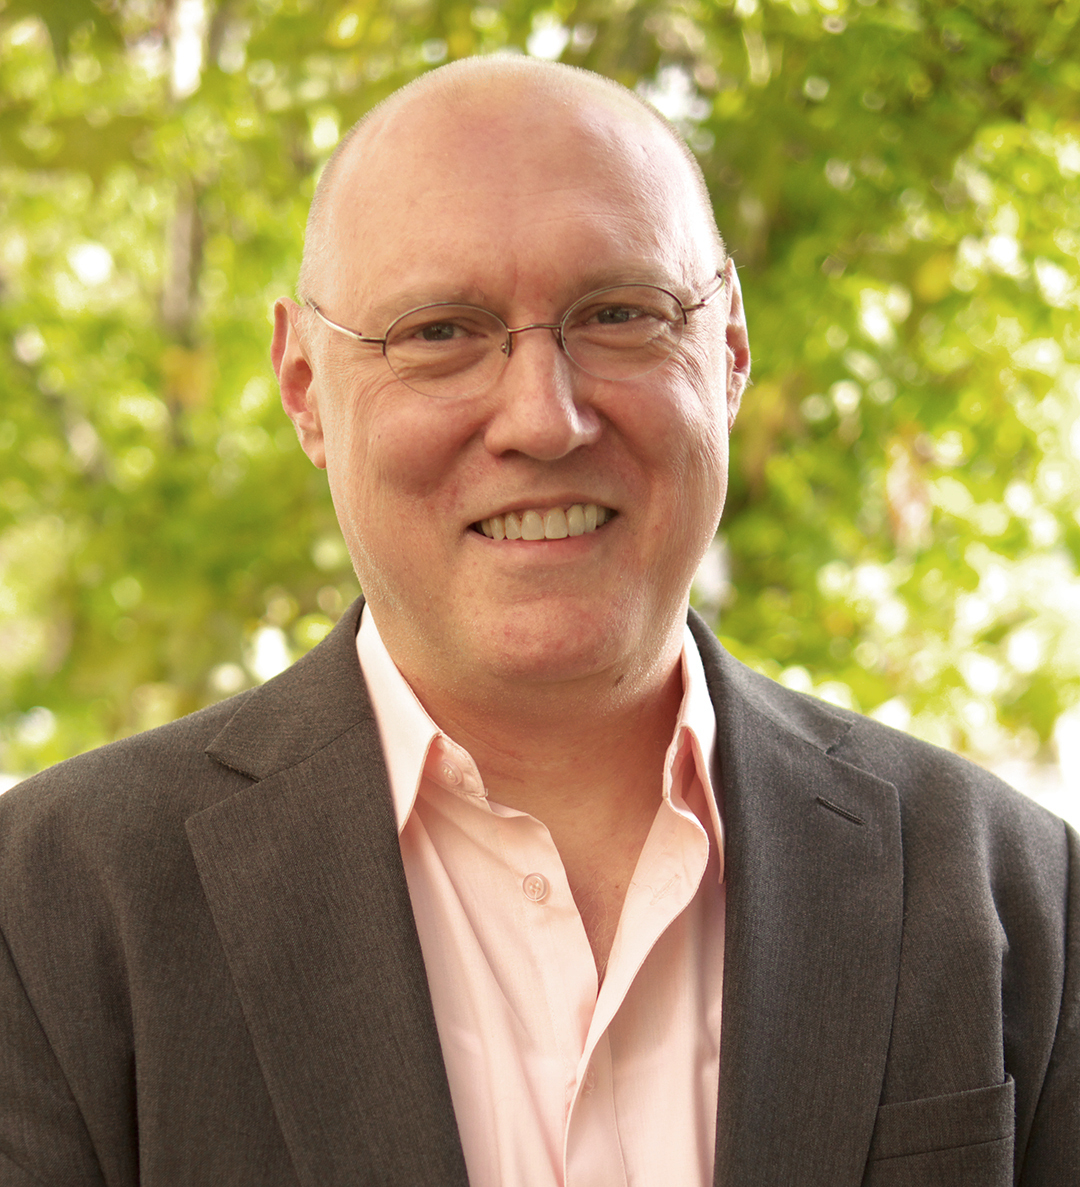
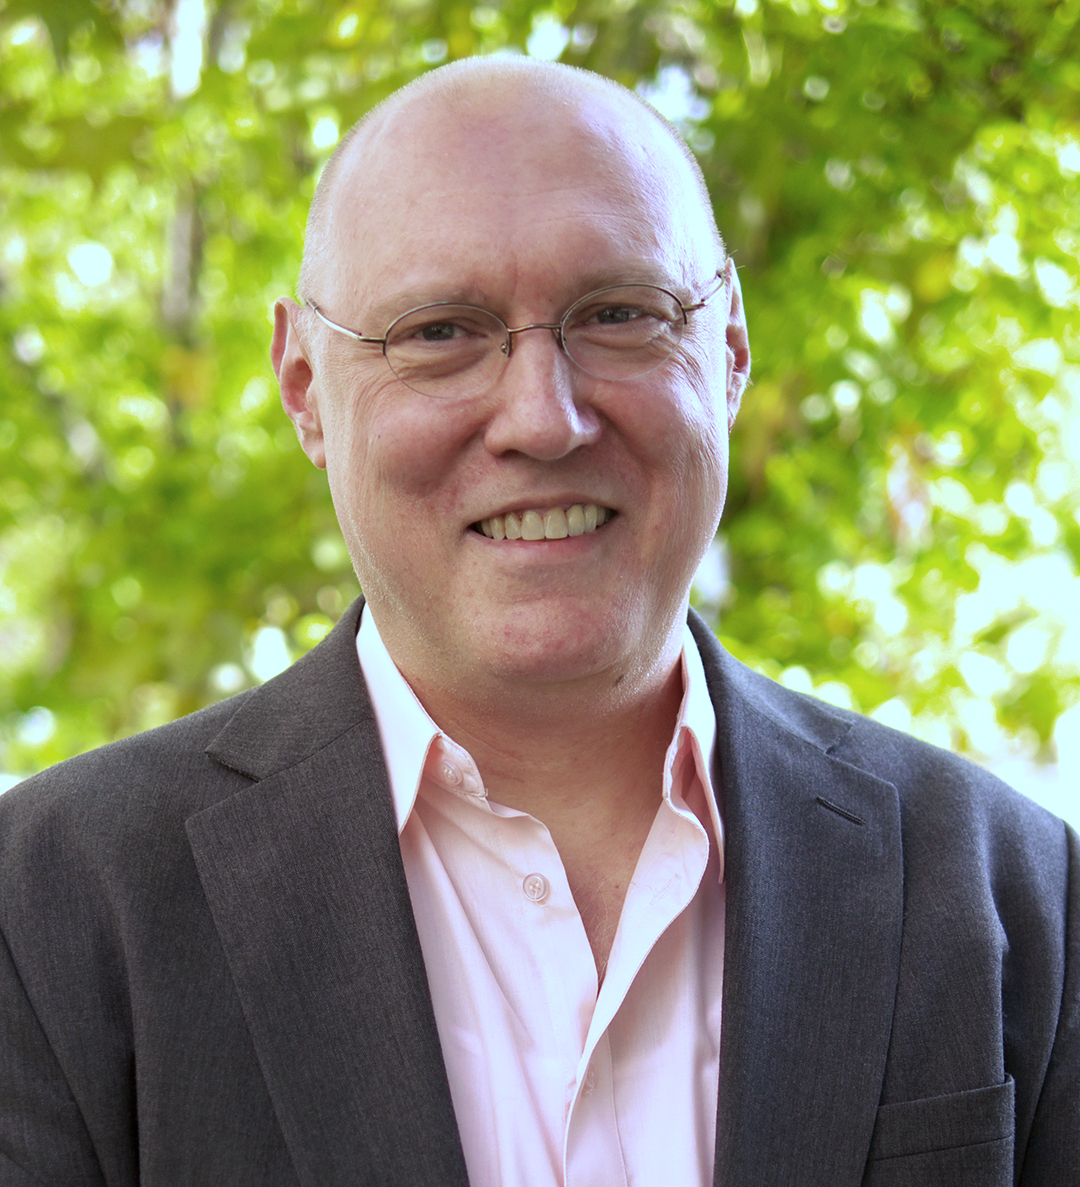
changed about and book pages

diff --git a/README.md b/README.md
@@ -7,7 +7,7 @@ Website repository for Peter Lancellotti
 
 *purple g in cover needs brightened*
 
-*switch cat tree photo* -USE VAMPIREE PHOTO-
+*switch cat tree photo* -USE VAMPIREE PHOTO- (still make cat tree photo look nice, though) (bump contrast in headshot, brighten main photo)
 
 *check spelling on cover text*
 
